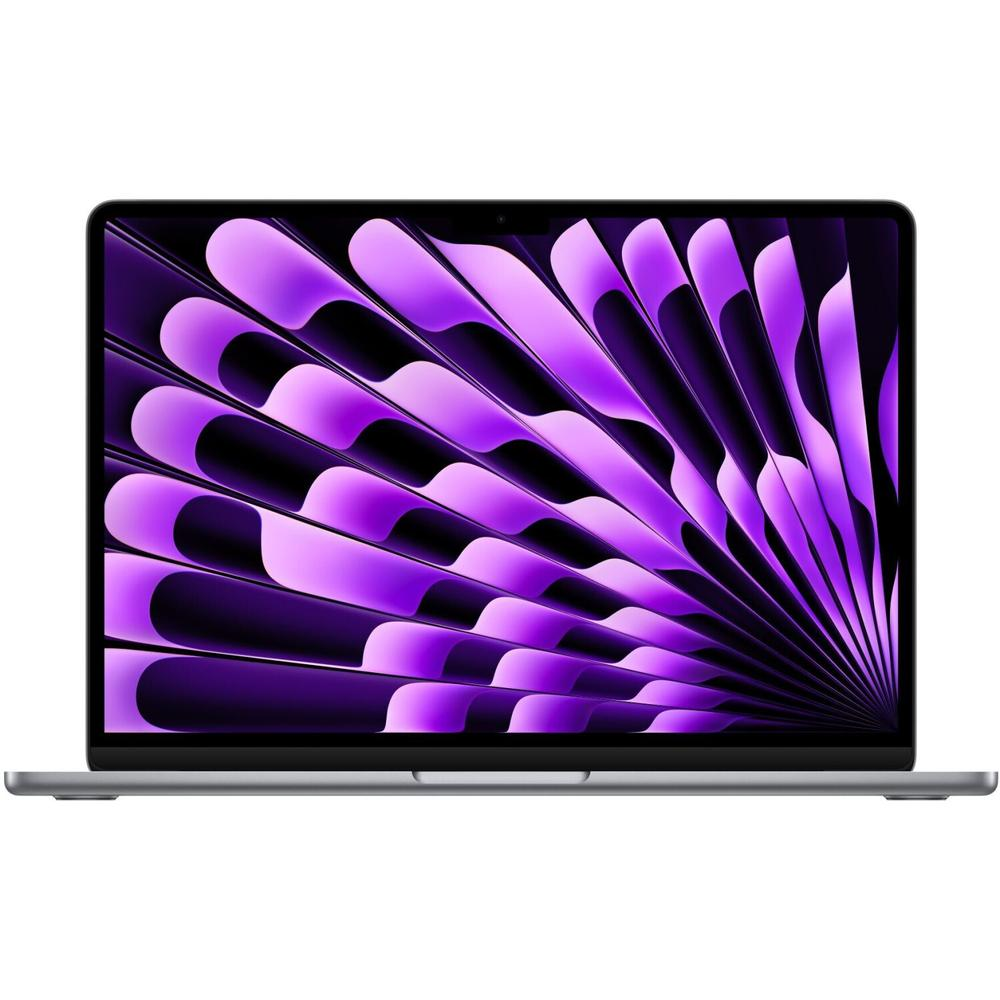
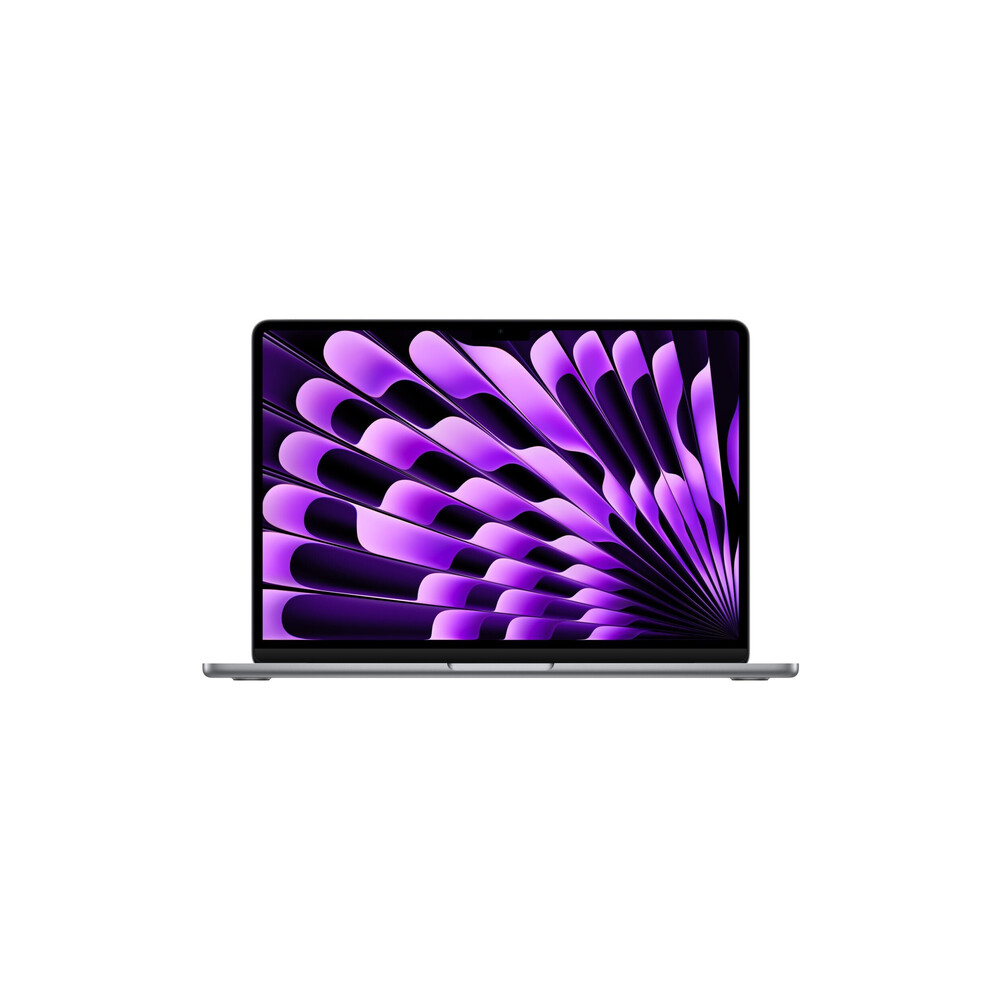
v1

diff --git a/app.py b/app.py
@@ -1,25 +1,13 @@
 import streamlit as st
-from PIL import Image, ImageOps
 import os
 import requests
+from subprocess import run
 from io import BytesIO
 
-# Function to process the image
-def process_image(image):
-    # Ensure the image is in RGB mode
-    image = image.convert("RGB")
-    # Resize and make the image square
-    size = (1000, 1000)
-    background_color = (255, 255, 255)
-    # Create a new image with white background
-    background = Image.new('RGB', size, background_color)
-    # Calculate the ratio and size for resizing
-    ratio = min(size[0] / image.width, size[1] / image.height)
-    new_size = (int(image.width * ratio), int(image.height * ratio))
-    resized_image = image.resize(new_size, Image.LANCZOS)
-    # Paste the resized image onto the background
-    background.paste(resized_image, ((size[0] - new_size[0]) // 2, (size[1] - new_size[1]) // 2))
-    return background
+# Function to process the image using the bash script
+def process_image_with_wand(image_path, output_dir, output_filename):
+    script_path = './process_image.sh'
+    run(['bash', script_path, image_path, output_dir, output_filename])
 
 # Create directories if not exist
 os.makedirs('./temp', exist_ok=True)
@@ -27,49 +15,53 @@ os.makedirs('./square', exist_ok=True)
 
 st.title("Image Upload and Process App")
 
-# Option to upload image
-uploaded_file = st.file_uploader("Choose an image...", type=["jpg", "jpeg", "png"])
+# Choose input method
+input_method = st.radio("Select input method:", ("Upload Image", "Enter Image URL"))
 
-# Option to enter URL
-image_url = st.text_input("Or enter an image URL...")
-
-image = None
+image_path = None
 image_source = None
 
-# Check if an image is uploaded
-if uploaded_file is not None:
-    image = Image.open(uploaded_file)
-    image_source = uploaded_file.name
+# Handle image upload
+if input_method == "Upload Image":
+    uploaded_file = st.file_uploader("Choose an image...", type=["jpg", "jpeg", "png"])
+    if uploaded_file is not None:
+        image_path = os.path.join('./temp', uploaded_file.name)
+        with open(image_path, 'wb') as file:
+            file.write(uploaded_file.getbuffer())
+        image_source = uploaded_file.name
 
-# Check if a URL is provided
-elif image_url:
-    try:
-        response = requests.get(image_url)
-        image = Image.open(BytesIO(response.content))
-        image_source = os.path.basename(image_url)
-    except Exception as e:
-        st.error(f"Error fetching the image: {e}")
+# Handle image URL input
+elif input_method == "Enter Image URL":
+    image_url = st.text_input("Enter an image URL...")
+    if image_url:
+        try:
+            response = requests.get(image_url)
+            image_path = os.path.join('./temp', os.path.basename(image_url))
+            with open(image_path, 'wb') as file:
+                file.write(response.content)
+            image_source = os.path.basename(image_url)
+        except Exception as e:
+            st.error(f"Error fetching the image: {e}")
 
-if image is not None:
-    st.image(image, caption='Uploaded Image.', use_column_width=True)
-    st.write("")
-    st.write("Processing...")
+if image_path is not None:
+    st.image(image_path, caption='Uploaded Image.', use_column_width=True)
 
     # Process the image
-    processed_image = process_image(image)
+    output_filename = f"{os.path.splitext(image_source)[0]}-sq.jpg"
+    process_image_with_wand(image_path, './square', output_filename)
 
-    # Save the processed image to the square directory
-    processed_image_path = os.path.join('./square', f"{os.path.splitext(image_source)[0]}-sq.jpg")
-    processed_image.save(processed_image_path)
+    # Path to the processed image
+    processed_image_path = os.path.join('./square', output_filename)
 
-    st.image(processed_image, caption='Processed Image.', use_column_width=True)
+    # Display the processed image
+    st.image(processed_image_path, caption='Processed Image.', use_column_width=True)
 
     # Provide a download button for the processed image
     with open(processed_image_path, "rb") as file:
         btn = st.download_button(
             label="Download Processed Image",
             data=file,
-            file_name=f"{os.path.splitext(image_source)[0]}-sq.jpg",
+            file_name=output_filename,
             mime="image/jpeg"
         )
 
